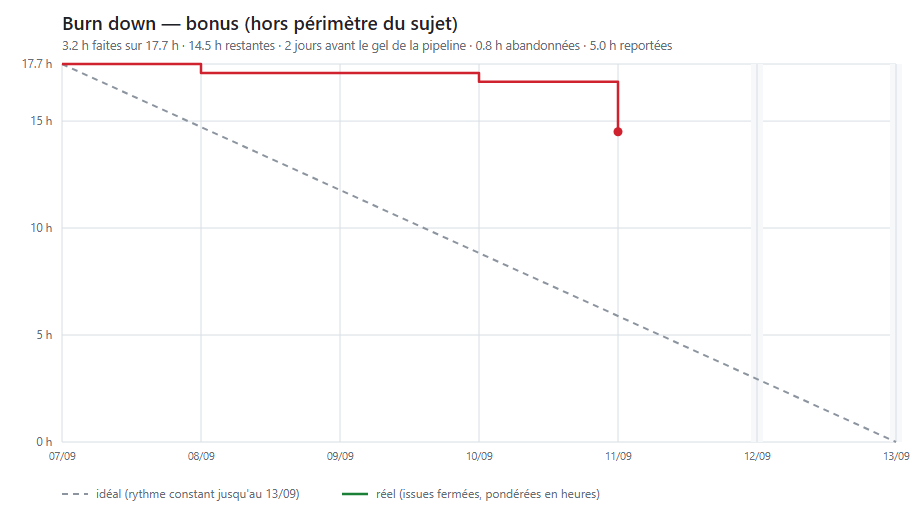
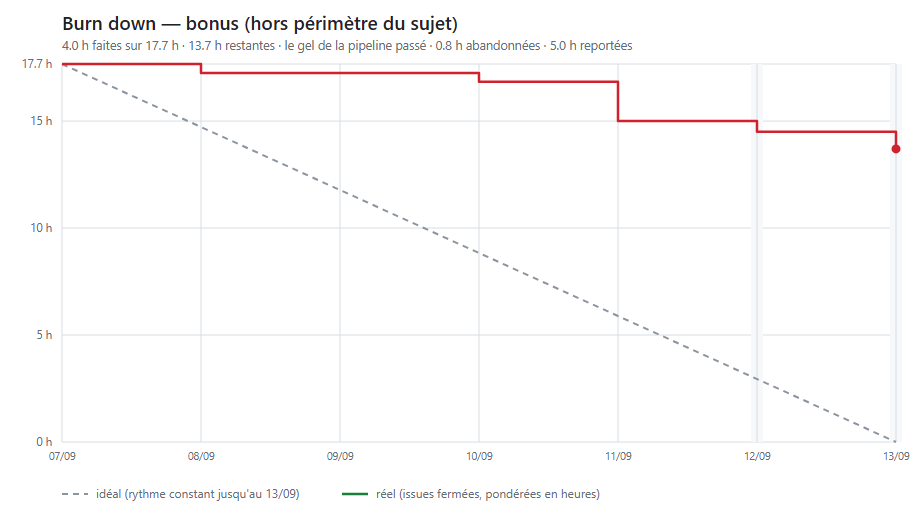
feat: renomme le message d'accueil

diff --git a/src/app.js b/src/app.js
@@ -8,7 +8,7 @@ app.use(express.json())
 
 app.get('/', (req, res) => {
       res.json({
-            message: 'CI-CD Kube - Présentation',
+            message: 'Soutenance M2 - Arthur',
             version: process.env.APP_VERSION ?? 'dev',
       })
 })

diff --git a/scripts/burndown.py b/scripts/burndown.py
@@ -120,14 +120,18 @@ def svg(cfg, total, serie, abandon=0.0, reporte=0.0):
     ]
 
     reste = serie[-1][1] if serie else total
+    reste = abs(reste) if round(reste, 1) == 0 else reste  # evite un "-0.0 h"
     fait = total - reste
     jours = (end - date.today()).days
+    # l'echeance passee ne se compte pas en jours negatifs
+    delai = (f'{jours} jour{"s" if jours > 1 else ""} avant {cfg["echeance"]}'
+             if jours > 0 else f'{cfg["echeance"]} passé')
     retire = ((f' · {abandon:.1f} h abandonnées' if abandon else '')
               + (f' · {reporte:.1f} h reportées' if reporte else ''))
     s.append(
         f'<text x="{M["l"]}" y="50" font-size="12.5" fill="{MUTED}">'
         f'{fait:.1f} h faites sur {total:.1f} h · {reste:.1f} h restantes · '
-        f'{jours} jours avant {cfg["echeance"]}{retire}</text>'
+        f'{delai}{retire}</text>'
     )
 
     pas = 5

diff --git a/README.md b/README.md
@@ -17,9 +17,10 @@ pipeline et la configuration Kubernetes.
 Diagramme d'activité complet : [`docs/pipeline-ci-cd.png`](docs/pipeline-ci-cd.png)
 (source PlantUML : [`docs/pipeline-ci-cd.puml`](docs/pipeline-ci-cd.puml)).
 
-Les quatre jobs sont chaînés entre eux grâce à `needs:` : `test` est un verrou,
+Les sept jobs sont chaînés entre eux grâce à `needs:` : `test` est un verrou,
 rien n'est construit si les tests échouent, et rien n'est déployé si l'image
-n'est pas publiée.
+n'est pas publiée puis scannée. Le détail de ces dépendances, et ce qu'un échec
+entraîne job par job, est dans [Le graphe des jobs](#le-graphe-des-jobs).
 
 ## L'application
 
@@ -64,7 +65,7 @@ L'E2E rejoue le même scénario sur **chromium, firefox et webkit**.
 ## Structure du dépôt
 
 ```
-.github/workflows/ci-cd.yml   pipeline complete, quatre jobs
+.github/workflows/ci-cd.yml   pipeline complete, sept jobs
 tests/                        tests unitaires Vitest + Supertest
 tests/integration/            tests d'integration, contre un vrai PostgreSQL
 tests/e2e/                    scenario Playwright, trois navigateurs
@@ -81,6 +82,49 @@ scripts/burndown.py           outillage de suivi, lit les issues GitHub
 ```
 
 ## La pipeline
+
+### Le graphe des jobs
+
+Les `needs:` du workflow forment un graphe orienté : chaque job attend ceux dont
+il dépend, et un job dont une dépendance échoue n'est pas interrompu — il n'est
+jamais démarré.
+
+```mermaid
+flowchart LR
+  test --> integration
+  test --> e2e["e2e · 3 navigateurs"]
+  test --> build
+  integration --> build
+  build --> scan
+  scan --> deploy
+  e2e --> deploy
+```
+
+`e2e` ne dépend que de `test` : il tourne en parallèle de `build` parce qu'il
+construit ses propres images avec `compose` et n'a pas besoin de l'image
+publiée. Il rejoint la chaîne au niveau de `deploy`.
+
+`notify` ne figure pas sur le graphe : il déclare `if: always()` **et** un
+`needs:` sur les six autres jobs. Les deux sont nécessaires — `always()` le fait
+démarrer quel que soit l'état des autres, le `needs:` lui donne le droit de lire
+leur résultat. Sans `deploy` dans cette liste, un déploiement en échec serait
+annoncé comme un succès.
+
+### Ce qu'un échec entraîne
+
+| Job en échec | Tourne quand même | Jamais démarrés | Conséquence |
+|---|---|---|---|
+| `test` | — | tous | aucune image construite |
+| `integration` | `e2e` | `build`, `scan`, `deploy` | aucune image publiée |
+| `e2e` | `build`, `scan` | `deploy` | l'image est publiée, le cluster n'est pas mis à jour |
+| `build` | `e2e` | `scan`, `deploy` | rien publié |
+| `scan` | `e2e` | `deploy` | l'image vulnérable est déjà publiée, cluster inchangé |
+| `deploy` | — | — | `rollout status` a échoué : les anciens pods servent toujours |
+| `notify` | — | — | le déploiement a eu lieu sans que personne soit prévenu |
+
+Deux lignes de ce tableau disent la même chose : la chaîne protège le
+**déploiement**, pas la **publication**. Ni l'E2E ni le scan Trivy n'empêchent
+le push sur GHCR — voir [Choix assumés](#choix-assumés).
 
 ### Les déclencheurs
 
